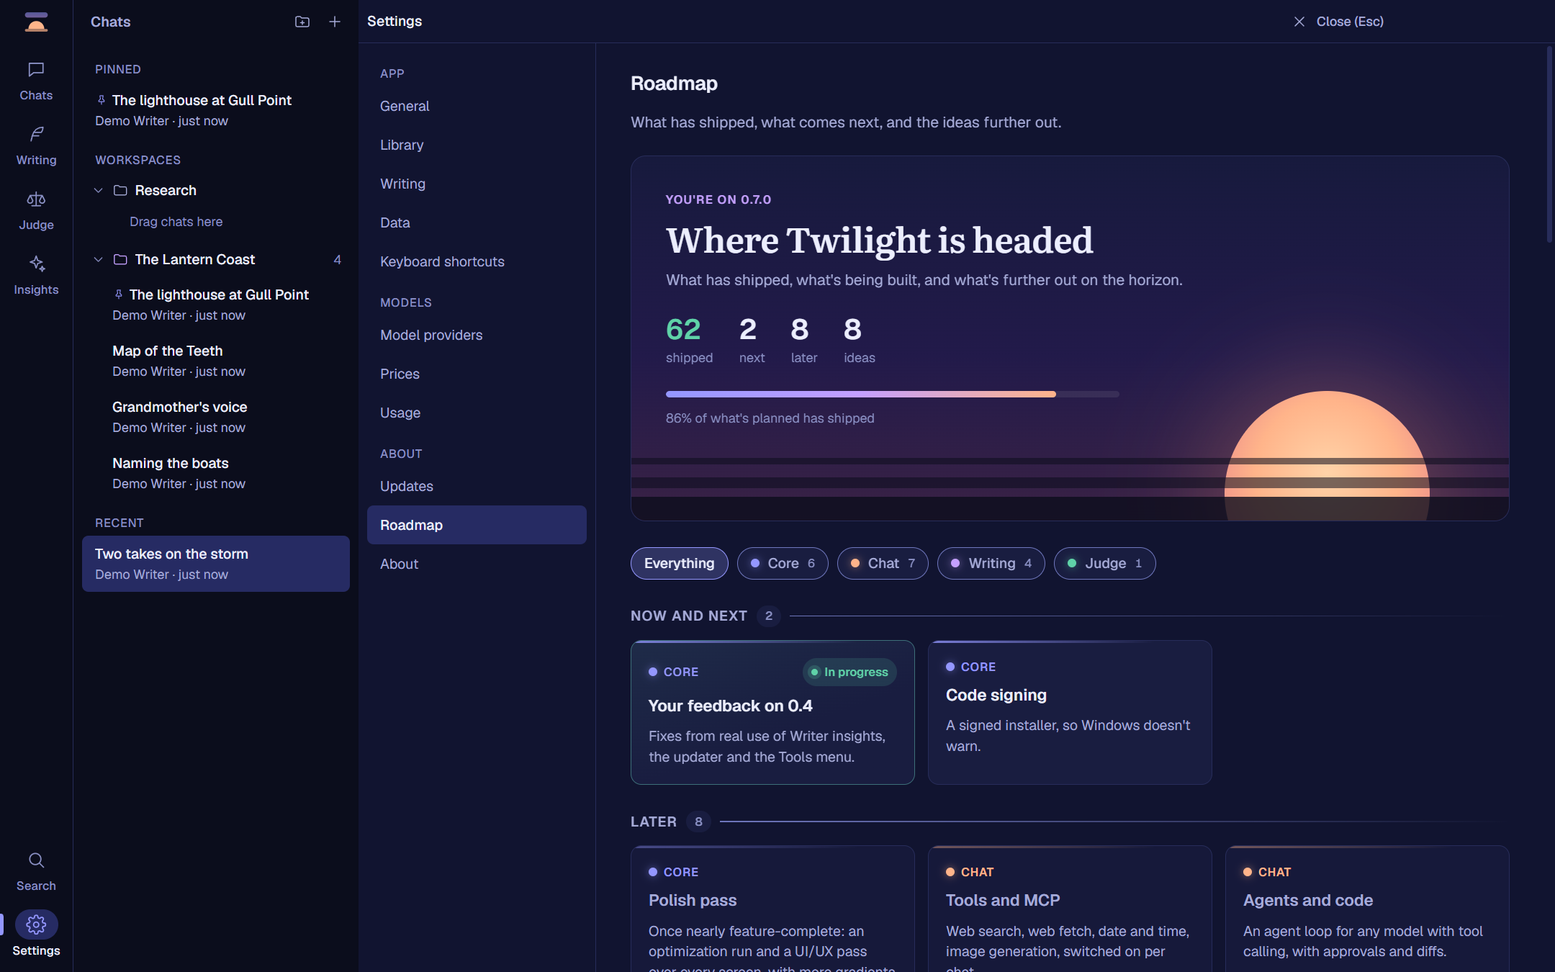
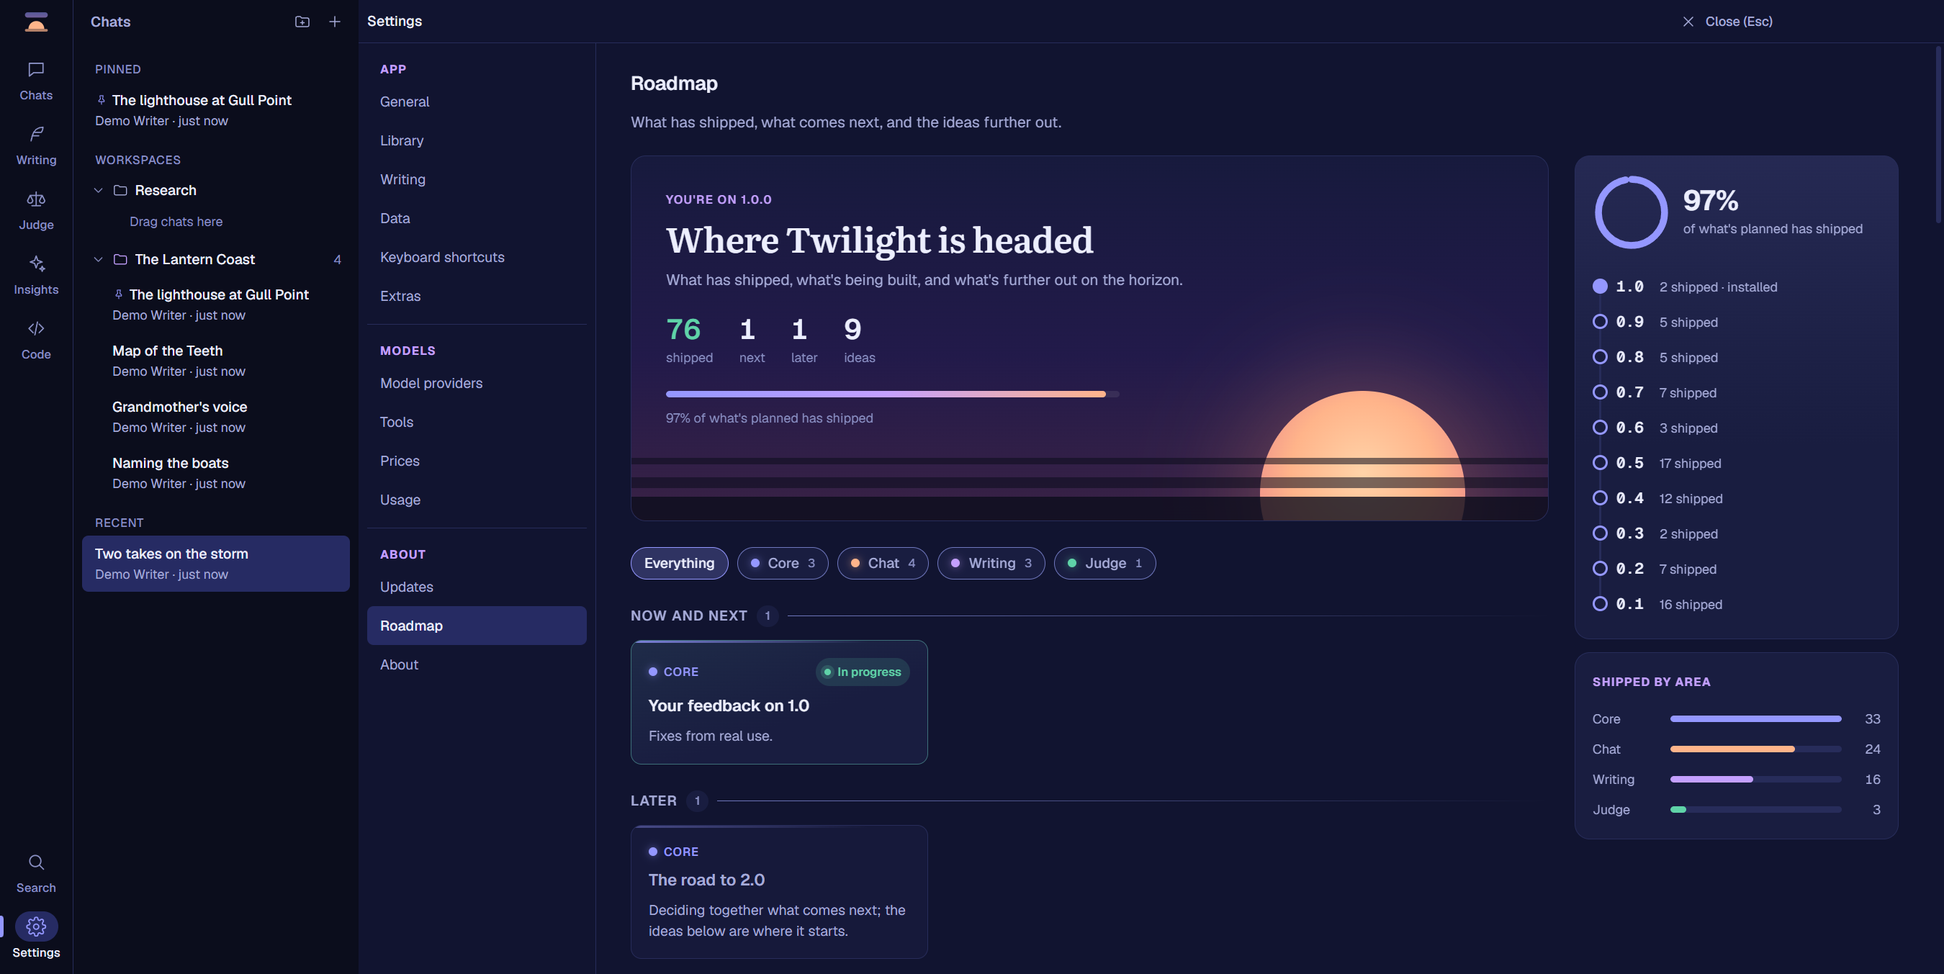
README and screenshots for 1.0; session list shows folder names
New showcase shots: the Code tab with a diff and task list, the document
library with a search, the Roadmap with its side panel, and Moonlit Paper
in the themes gallery; all from invented demo data. README sections for
Code, the library, MCP and pictures, your data and backups, and measured
speed. The Code session list showed a folder's whole path on Windows (a
lost backslash in its split); it shows the name again, with an e2e check.

diff --git a/src/main/showcase.ts b/src/main/showcase.ts
@@ -12,6 +12,9 @@ import * as judge from './judge'
 import * as providers from './providers'
 import * as updates from './updates'
 import * as workspaces from './workspaces'
+import * as code from './code/agent'
+import { reindex as reindexLibrary, setLibrarySettings } from './docLibrary'
+import { lineDiff } from '@shared/code'
 
 // Screenshots for the releases page, run with TWILIGHT_SHOWCASE=<output folder> (a throwaway
 // profile, like the self-test). Everything shown is made up here: a short original story, a
@@ -432,8 +435,12 @@ export function runShowcase(win: BrowserWindow, outDir: string): void {
         [...document.querySelectorAll('.provider-item')].find((r) => r.textContent.includes('demo'))?.click()`)
       await shot('providers')
 
+      const size = win.getSize()
+      win.setSize(1800, size[1])
       await js(`[...document.querySelectorAll('.settings-nav-item')].find((b) => b.textContent.startsWith('Roadmap'))?.click(); await wait(1600)`)
       await shot('roadmap')
+      win.setSize(size[0], size[1])
+      await wait(300)
 
       await js(`[...document.querySelectorAll('.settings-nav-item')].find((b) => b.textContent.startsWith('Updates'))?.click()`)
       await shot('updates')
@@ -468,11 +475,64 @@ export function runShowcase(win: BrowserWindow, outDir: string): void {
         [...document.querySelectorAll('.settings-nav-item')].find((b) => b.textContent.startsWith('Usage'))?.click(); await wait(700)`)
       await shot('usage')
 
+      // The document library over the demo manuscript, with a search tried.
+      setLibrarySettings({ folders: [join(app.getPath('userData'), 'vault')] })
+      await reindexLibrary()
+      await js(`[...document.querySelectorAll('.settings-nav-item')].find((b) => b.textContent.startsWith('Writing'))?.click(); await wait(500);
+        const input = document.querySelector('.library-try input');
+        Object.getOwnPropertyDescriptor(HTMLInputElement.prototype, 'value').set.call(input, 'who lights the lamps on the bridge');
+        input.dispatchEvent(new Event('input', { bubbles: true })); await wait(100);
+        document.querySelector('.library-try button').click(); await wait(500);
+        // The demo folder sits in the throwaway profile; the picture shows a tidy place for it.
+        document.querySelectorAll('.library-folder .folder-path').forEach((e) => (e.textContent = 'Documents\\\\Writing'));
+        document.querySelector('.library-card')?.scrollIntoView({ block: 'start' })`)
+      await shot('library')
+
+      // The Code tab: a small fix in a demo project, as the agent left it.
+      const project = join(app.getPath('userData'), 'lighthouse-log')
+      mkdirSync(project, { recursive: true })
+      const before = "import { lamps } from './lamps'\n\nexport function logEntry(night: string): string {\n  return `${night}: lit eight lamps on the bridge`\n}\n"
+      const after = "import { lamps } from './lamps'\n\nexport function logEntry(night: string): string {\n  return `${night}: lit ${lamps.length} lamps on the bridge`\n}\n"
+      writeFileSync(join(project, 'log.ts'), after)
+      writeFileSync(join(project, 'lamps.ts'), "export const lamps = ['quay', 'quay', 'quay', 'bridge', 'bridge', 'bridge', 'hill', 'hill', 'hill']\n")
+      writeFileSync(join(project, 'AGENTS.md'), 'Keep changes small. Run npm test after each one.\n')
+      const session = (await code.newSession(null, project))!
+      code.showcaseSession(session.id, {
+        title: 'The log says eight lamps; there are nine',
+        tasks: [
+          { title: 'Find where the log gets its count', status: 'done' },
+          { title: 'Read the count from lamps.ts', status: 'done' },
+          { title: 'Run the tests', status: 'done' }
+        ],
+        entries: [
+          { kind: 'user', text: 'The bridge has nine lamps but the nightly log says eight. Fix it so the log always matches the lamp list.' },
+          { kind: 'assistant', text: "I'll find where the log writes its count first." },
+          { kind: 'tool', id: 't1', tool: 'search_files', title: 'Searched for "eight"', status: 'done', output: 'log.ts:4:  return `${night}: lit eight lamps on the bridge`' },
+          { kind: 'tool', id: 't2', tool: 'read_file', title: 'Read lamps.ts', status: 'done' },
+          { kind: 'tool', id: 't3', tool: 'edit_file', title: 'Edited log.ts', status: 'done', diff: lineDiff(before, after), snapshot: 1 },
+          { kind: 'tool', id: 't4', tool: 'run_command', title: 'Ran npm test', status: 'done', output: ' ✓ logEntry counts every lamp (3 ms)\n\n Tests  1 passed' },
+          {
+            kind: 'assistant',
+            text: 'Done. The log hard-coded **eight**; it now counts `lamps` from `lamps.ts`, so adding a lamp updates the log too. The test passes. Undo puts `log.ts` back if you\'d rather keep it as it was.'
+          }
+        ]
+      })
+      await js(`document.querySelector('.rail-item[data-mode="code"]').click(); await wait(600);
+        document.querySelector('.code-tool[data-tool="edit_file"] .code-tool-head')?.click(); await wait(300)`)
+      await shot('code')
+
+      // The light theme, Moonlit Paper, on the lighthouse chat.
+      await js(`document.querySelector('[data-mode="chat"]').click(); await wait(300);
+        [...document.querySelectorAll('.tw-conv')].find((r) => r.textContent.includes('The lighthouse at Gull Point'))?.click(); await wait(500);
+        document.documentElement.dataset.theme = 'moonlit'; await wait(400)`)
+      await shot('moonlit')
+      await js(`delete document.documentElement.dataset.theme; await wait(200)`)
+
       // The themes: the lighthouse chat in six of them, set side by side as one picture.
       await js(`document.querySelector('[data-mode="chat"]').click(); await wait(300);
         [...document.querySelectorAll('.tw-conv')].find((r) => r.textContent.includes('The lighthouse at Gull Point'))?.click(); await wait(500)`)
       const tiles: { name: string; src: string }[] = []
-      for (const [theme, name] of [['twilight', 'Twilight'], ['ultraviolet', 'Ultraviolet'], ['synthwave', 'Synthwave'], ['aurora', 'Aurora'], ['campfire', 'Campfire'], ['phosphor', 'Phosphor']]) {
+      for (const [theme, name] of [['twilight', 'Twilight'], ['ultraviolet', 'Ultraviolet'], ['synthwave', 'Synthwave'], ['aurora', 'Aurora'], ['campfire', 'Campfire'], ['moonlit', 'Moonlit Paper']]) {
         await js(`${theme === 'twilight' ? 'delete document.documentElement.dataset.theme' : `document.documentElement.dataset.theme = '${theme}'`}; await wait(350)`)
         tiles.push({ name, src: (await win.webContents.capturePage()).resize({ width: 960 }).toDataURL() })
       }
@@ -481,7 +541,7 @@ export function runShowcase(win: BrowserWindow, outDir: string): void {
       await js(`const page = document.createElement('div'); page.id = 'showcase-grid';
         page.style.cssText = 'position:fixed;inset:0;z-index:999;display:flex;flex-direction:column;justify-content:center;gap:28px;padding:0 44px;background:radial-gradient(120% 80% at 50% 120%, #3a2245, #05060f 70%)';
         const head = document.createElement('div');
-        head.textContent = 'Ten themes, or your own';
+        head.textContent = 'Eleven themes, light and dark, or your own';
         head.style.cssText = 'text-align:center;font-family:var(--font-serif);font-size:40px;font-weight:600;color:#eceefe;letter-spacing:-.02em';
         page.appendChild(head);
         const grid = document.createElement('div');

diff --git a/src/main/e2e.ts b/src/main/e2e.ts
@@ -3418,6 +3418,8 @@ export function runE2E(win: BrowserWindow, outDir: string): void {
       const opened42 = await untilUi(`document.querySelector('.code-view .code-folder')?.textContent === 'code-project'`)
       const listed42 = await js<string[]>(`[...document.querySelectorAll('.code-session-item .tw-conv-title')].map((e) => e.textContent)`)
       check('the Code tab opens the session in its folder', opened42 && listed42.includes('code-project'), listed42)
+      const meta42 = await js<string>(`document.querySelector('.code-session-item .tw-conv-meta')?.textContent ?? ''`)
+      check('the session list shows the folder by name, not its whole path', meta42.startsWith('code-project ·'), meta42)
       const before42 = log.length
       win.webContents.focus()
       await js(`document.querySelector('.code-view textarea')?.focus()`)

diff --git a/src/main/code/agent.ts b/src/main/code/agent.ts
@@ -333,6 +333,15 @@ export async function rewind(id: string, entryIndex: number): Promise<{ view: Co
   return { view: view(s), text: entry.text }
 }
 
+/** Fills a session's transcript and task list (the README screenshots' demo work, never a real session). */
+export function showcaseSession(id: string, patch: { title: string; entries: CodeEntry[]; tasks: CodeTask[] }): CodeSessionView {
+  const s = load(id)
+  Object.assign(s, patch)
+  push(s)
+  emit({ kind: 'list' })
+  return view(s)
+}
+
 /** Your message; starts the agent if it isn't already working. */
 export function send(id: string, text: string): CodeSessionView {
   const s = load(id)

diff --git a/src/renderer/src/styles/app.css b/src/renderer/src/styles/app.css
@@ -1456,3 +1456,5 @@ input[type='checkbox']:not(.switch input):focus-visible { outline: none; box-sha
 input[type='checkbox']:not(.switch input):disabled { opacity: 0.5; cursor: default; }
 /* Buttons beside a field are as tall as it. */
 .field-inline > .tw-btn-sm, .choice-own .tw-btn, .library-try .tw-btn, .code-answer .tw-btn, .mcp-form-actions .tw-btn { height: var(--control-md); }
+/* The models count and "N in the picker" stay on one line. */
+.models-head .provider-section-title, .models-head .provider-section-title .field-note { white-space: nowrap; }

diff --git a/src/renderer/src/components/Sidebar.tsx b/src/renderer/src/components/Sidebar.tsx
@@ -632,7 +632,7 @@ function CodeList() {
         >
           <span className="tw-conv-title">{c.title}</span>
           <span className="tw-conv-meta">
-            {c.waiting ? 'Waiting for you' : c.running ? 'Working…' : c.folder.split(/[\/]/).pop()} · {relativeTime(c.updatedAt)}
+            {c.waiting ? 'Waiting for you' : c.running ? 'Working…' : c.folder.split(/[\\/]/).pop()} · {relativeTime(c.updatedAt)}
           </span>
           <CodeSessionActions id={c.id} title={c.title} />
         </div>

diff --git a/README.md b/README.md
@@ -14,7 +14,7 @@ Claude and any OpenAI-compatible model (OpenRouter, LM Studio, Ollama, llama.cpp
 
 ![A chat in Twilight: a scene, a logbook block, and a choice card with two decisions](docs/screenshots/chat.png)
 
-Chats that run to hundreds of thousands of tokens without slowing down or losing the prompt cache. Two models side by side. A manuscript editor with AI tools that show their edits as a diff. A judge that scores passages blind. Your writing habits as numbers. All of it on your own computer, with your own keys.
+Chats that run to hundreds of thousands of tokens without slowing down or losing the prompt cache. Two models side by side. A manuscript editor with AI tools that show their edits as a diff, and a library that finds the right passage in everything you've written. A coding agent that asks before it changes anything. A judge that scores passages blind. Your writing habits as numbers. All of it on your own computer, with your own keys, and the window is up in under 300 ms.
 
 ## Before you download: this is a personal project
 
@@ -66,6 +66,25 @@ Clone a chat into two panes and send to A, B or both, each with its own model an
 - **Personas:** saved system prompts with a model and choice setting. Start a chat from one, or apply one mid-chat.
 - **Prompts:** the messages you send often, one click away, with a fill-in for the part that changes.
 - **Tools, per chat:** web search and web fetch (Claude's own, or OpenRouter's web plugin), with the sources listed under the reply; and the date and time, sent with each message without touching the cache.
+- **MCP servers:** add any MCP server, a program on your computer or one at an address, and switch it on per chat. Each tool call waits in the reply for **Allow once**, **Always allow** or **Decline**, unless you trust that server, and the reply lists every tool it used with what went in and what came back.
+- **Pictures:** let the model make an image when you ask, from an image model you choose (OpenAI's, or one on OpenRouter); chatting with an image model like Nano Banana shows its pictures right in the reply.
+
+### Your own library
+
+![The document library: a search over a manuscript finds the passages about who lights the lamps, each with its file and line](docs/screenshots/library.png)
+
+Point Twilight at the folders you write in, and with **Document library** on, each message brings the passages from them that bear on it, with a chip saying where they came from. It searches a full-text index on your computer, fast even on very large collections, and an embedding model (on Ollama, say) adds search by meaning. Models that can use tools search it themselves mid-reply when the first passages aren't enough.
+
+### Code: an agent that asks first
+
+![The Code tab: a fix to a demo project, with the edit shown as a diff, the test run, and the agent's task list](docs/screenshots/code.png)
+
+Open a project folder and give the agent a task: it lists, reads and searches files, edits them, runs commands, and asks you when it's unsure. It's built so nothing gets lost:
+
+- **Every edit is shown as a diff and waits for you,** unless you let edits through for a session. Commands always ask, and ones that could delete or overwrite things are flagged and can never be allowed for good.
+- **Plan mode** has it look around and write a plan first; nothing changes until you press **Run this plan**.
+- **Every change is snapshotted.** Undo puts back the last one, Undo all every one, and **Rewind to here** goes back to before any of your messages. Deleted files go to the Recycle Bin, and the agent can't reach outside its folder or touch `.git`.
+- It keeps a task list you can follow, reads your project's `AGENTS.md`, `CLAUDE.md` or `TWILIGHT.md`, and can search the web with Claude.
 
 ### The Judge
 
@@ -77,7 +96,7 @@ Passages are scored blind by a judge model you choose, against a rubric, criteri
 
 ![The writing editor: a Tighten suggestion shown as an in-place diff, with Accept and Reject](docs/screenshots/writing.png)
 
-Markdown documents in any folder you choose (an Obsidian vault works as is). A 100k-word manuscript opens in a blink. Select a passage and **Ask**, **Rewrite**, **Tighten**, **Expand** or change its **Tone**; the suggestion appears as an in-place diff to accept or reject, and every accepted edit can be reverted. Rename, move and organise documents and folders from the sidebar.
+Markdown documents in any folder you choose (an Obsidian vault works as is). A 100k-word manuscript opens in a blink. Select a passage and **Ask**, **Rewrite**, **Tighten**, **Expand** or change its **Tone**; the suggestion appears as an in-place diff to accept or reject, and every accepted edit can be reverted. Rename, move and organise documents and folders from the sidebar. Spelling is checked as you type, offline, with Windows' own dictionaries.
 
 ### Writer insights
 
@@ -87,9 +106,9 @@ Your writing folder, seen as numbers: words written today, this week and this ye
 
 ### Make it yours
 
-![Six of Twilight's themes side by side: Twilight, Ultraviolet, Synthwave, Aurora, Campfire and Phosphor](docs/screenshots/themes.png)
+![Six of Twilight's themes side by side: Twilight, Ultraviolet, Synthwave, Aurora, Campfire and the light Moonlit Paper](docs/screenshots/themes.png)
 
-Ten themes, from the default dusk to Synthwave, Aurora, Campfire, Phosphor and a high-contrast one, or **build your own** from a ground colour and three accents (every colour is kept readable). Put a picture of your own or a gradient behind the whole window. Pages fade in, messages ease in, and the window opens on a moment of evening glow, or turn the motion down or off.
+Eleven themes, from the default dusk to Synthwave, Aurora, Campfire, a high-contrast one and **Moonlit Paper**, a light theme of warm paper and dark ink, or **build your own** from a ground colour and three accents (every colour is kept readable). Put a picture of your own or a gradient behind the whole window, framed how you like. Drag the sections on the left into your own order. Pages fade in, messages ease in, and the window opens on a moment of evening glow, or turn the motion down or off. And for fun, **Extras** has particles that follow your scrolling: stardust, sparks, fireflies, snow, constellations or bats.
 
 ### Your models, your keys, your spend
 
@@ -100,7 +119,18 @@ Ten themes, from the default dusk to Synthwave, Aurora, Campfire, Phosphor and a
 - **Usage:** tokens and spend by day, by model and by chat, priced with your own price list where you want one, and OpenRouter's own figure where it reports it.
 - Keys are encrypted with Windows' own credential protection and only ever sent to their provider.
 
+### Your data, kept safe
+
+- **Backups:** everything (chats, settings, keys, pictures, your theme) backed up as a plain folder, whenever you like and automatically each day or week. Restore any of them in a click; what's there is backed up first.
+- **Keep it where you want:** move Twilight's data to another drive or a synced folder. It's copied and checked before it's used, and the old copy stays until you remove it.
+
+### Fast, and measured
+
+The window is up in about 270 ms and a 115k-word manuscript opens in about 35 ms; scrolling holds the display's own rate on a 350k-token chat. Every speed claim here comes from `scripts/bench.cjs`, which times the real app on a lived-in profile; the numbers from 0.9 to 1.0 are in [bench/README.md](bench/README.md).
+
 ### Updates you control
+
+![The Roadmap: where Twilight is headed, with every release on the way to 1.0 beside it](docs/screenshots/roadmap.png)
 
 Twilight checks this repository's releases once a day (you can turn that off) and updates in one click, quietly. Any of the last three versions is a click away if an update doesn't suit you, and your database is backed up before every switch. Settings → Roadmap shows what has shipped and what's next.
 
@@ -108,7 +138,8 @@ Twilight checks this repository's releases once a day (you can turn that off) an
 
 - The interface never touches the network. Fonts are bundled, and web requests from the window are blocked.
 - Your chats, documents, settings and background picture stay on your computer.
-- Model requests go only to the providers you set up. Web search, when you switch it on, runs on your provider's side.
+- Model requests go only to the providers you set up. Web search, when you switch it on, runs on your provider's side. MCP servers, image models and embedding models are reached only once you add them.
+- The document library's index and the Code tab's snapshots stay in Twilight's data folder.
 - The once-a-day update check (which you can turn off) is the only request Twilight makes on its own.
 
 ## Download
@@ -138,7 +169,7 @@ npm run typecheck
 
 ### How it's built
 
-- `src/main` — the Electron main process. Owns the SQLite database (`db.ts`), API keys (`secrets.ts`, encrypted with Windows DPAPI via `safeStorage`), providers (`providers/`) and the chat engine (`chat.ts`). All network traffic to models happens here.
+- `src/main` — the Electron main process. Owns the SQLite database (`db.ts`), API keys (`secrets.ts`, encrypted with Windows DPAPI via `safeStorage`), providers (`providers/`), the chat engine (`chat.ts`), the Code tab's agent (`code/`), the MCP client (`mcp/`), the document library (`docLibrary.ts`, SQLite FTS5 plus optional embeddings) and backups (`backups.ts`, `location.ts`). All network traffic to models happens here.
 - `src/preload` — the typed bridge (`window.twilight`) between the interface and the main process.
 - `src/renderer` — the React interface. It never touches the network: every web request from it is blocked.
 - `src/shared` — types and logic shared by both sides.
@@ -154,12 +185,14 @@ Caching is a prefix match, so requests are built to be the previous request plus
 
 - The system prompt carries its own cache breakpoint; Claude's replies (thinking and web-search blocks included) are stored exactly as the API returned them and replayed unchanged.
 - A top-level `cache_control` moves the second breakpoint to the end of the conversation. Cache lifetime defaults to 1 hour.
-- Anything that changes over time (an instruction change, the date and time, an attached file) goes into the newest message, never into the prefix.
+- Anything that changes over time (an instruction change, the date and time, an attached file, library passages) goes into the newest message, never into the prefix.
+- Tools Twilight runs itself (MCP, pictures, the library search) are rounds stored inside the one reply and replayed exactly, so a reply that used tools reads from the cache like any other.
 
 #### Tests
 
 After `npm run build`, each runs the real app in a throwaway profile and never touches your data:
 
-- `TWILIGHT_E2E=<folder> npx electron .` starts a fake OpenAI-compatible model server and drives the app through every feature, writing `e2e.json` (390+ checks) and screenshots.
+- `TWILIGHT_E2E=<folder> npx electron .` starts a fake OpenAI-compatible model server (plus fake MCP and embedding servers) and drives the app through every feature, writing `e2e.json` (550 checks) and screenshots.
+- `node scripts/bench.cjs <label>` times startup, opening screens, memory and scrolling on the packaged app.
 - `TWILIGHT_SELFTEST=<folder> npx electron .` scrolls a ~350k-token chat one step per frame and writes frame timings.
 - `TWILIGHT_SHOWCASE=<folder> npx electron .` fills a profile with an invented story and captures the screenshots in `docs/screenshots/`.

diff --git a/CHANGELOG.md b/CHANGELOG.md
@@ -14,7 +14,7 @@ Each version's section becomes its release notes on the releases page (`npm run 
 - **Checkboxes and dropdowns look like Twilight's own:** an outlined box when off and a filled tick when on, instead of a flat grey tile; dropdowns draw the app's chevron. Each MCP server has the same on/off switch as a provider.
 - **Split view:** the footer under a reply wraps in a half-width pane instead of running off the edge.
 - **The Code header:** the folder, the instructions file and the Web switch are matching chips, the model picker is a pill, and on a narrower window the least needed pieces give way first.
-- **Smaller things:** a prompt inserted after your words keeps a space between them; hints no longer cover an open Tools or Prompts menu; the empty chat's evening fades into the message box instead of ending in a hard edge; theme cards fill the width; buttons beside a field match its height; diffs have even padding.
+- **Smaller things:** the Code session list shows each project folder by name instead of its whole path; a prompt inserted after your words keeps a space between them; hints no longer cover an open Tools or Prompts menu; the empty chat's evening fades into the message box instead of ending in a hard edge; theme cards fill the width; buttons beside a field match its height; diffs have even padding.
 
 
 ## 0.9.0
